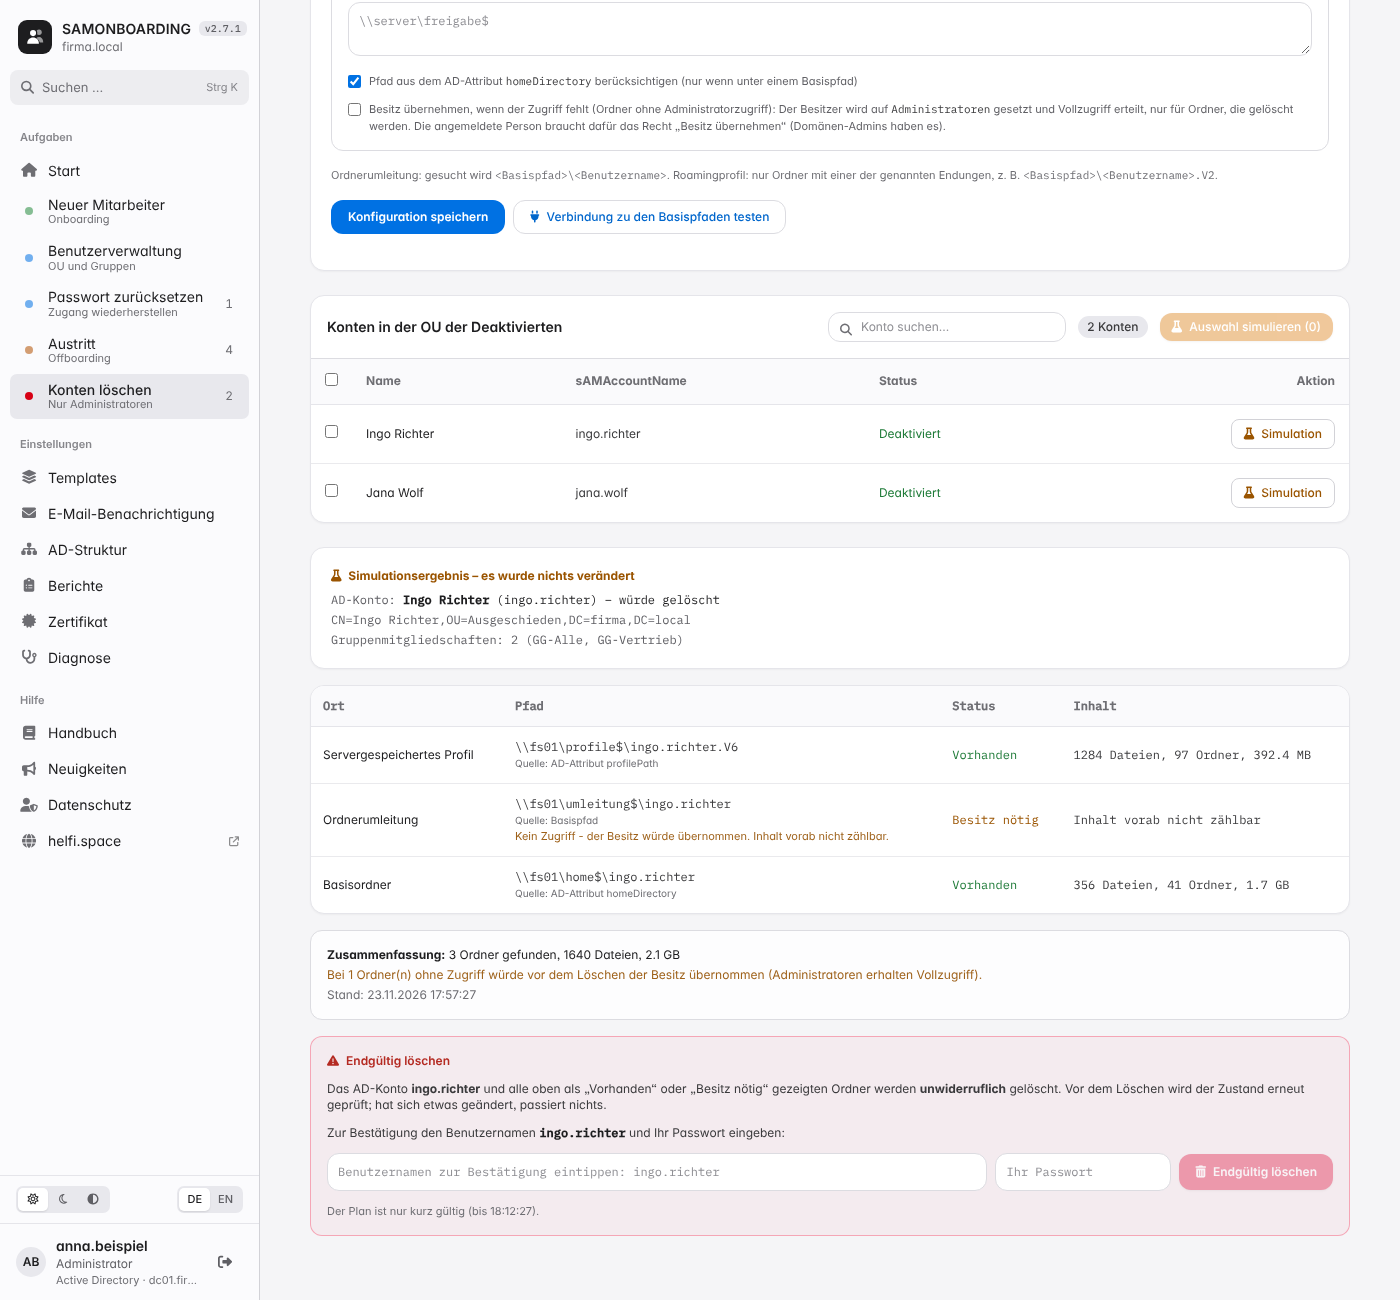
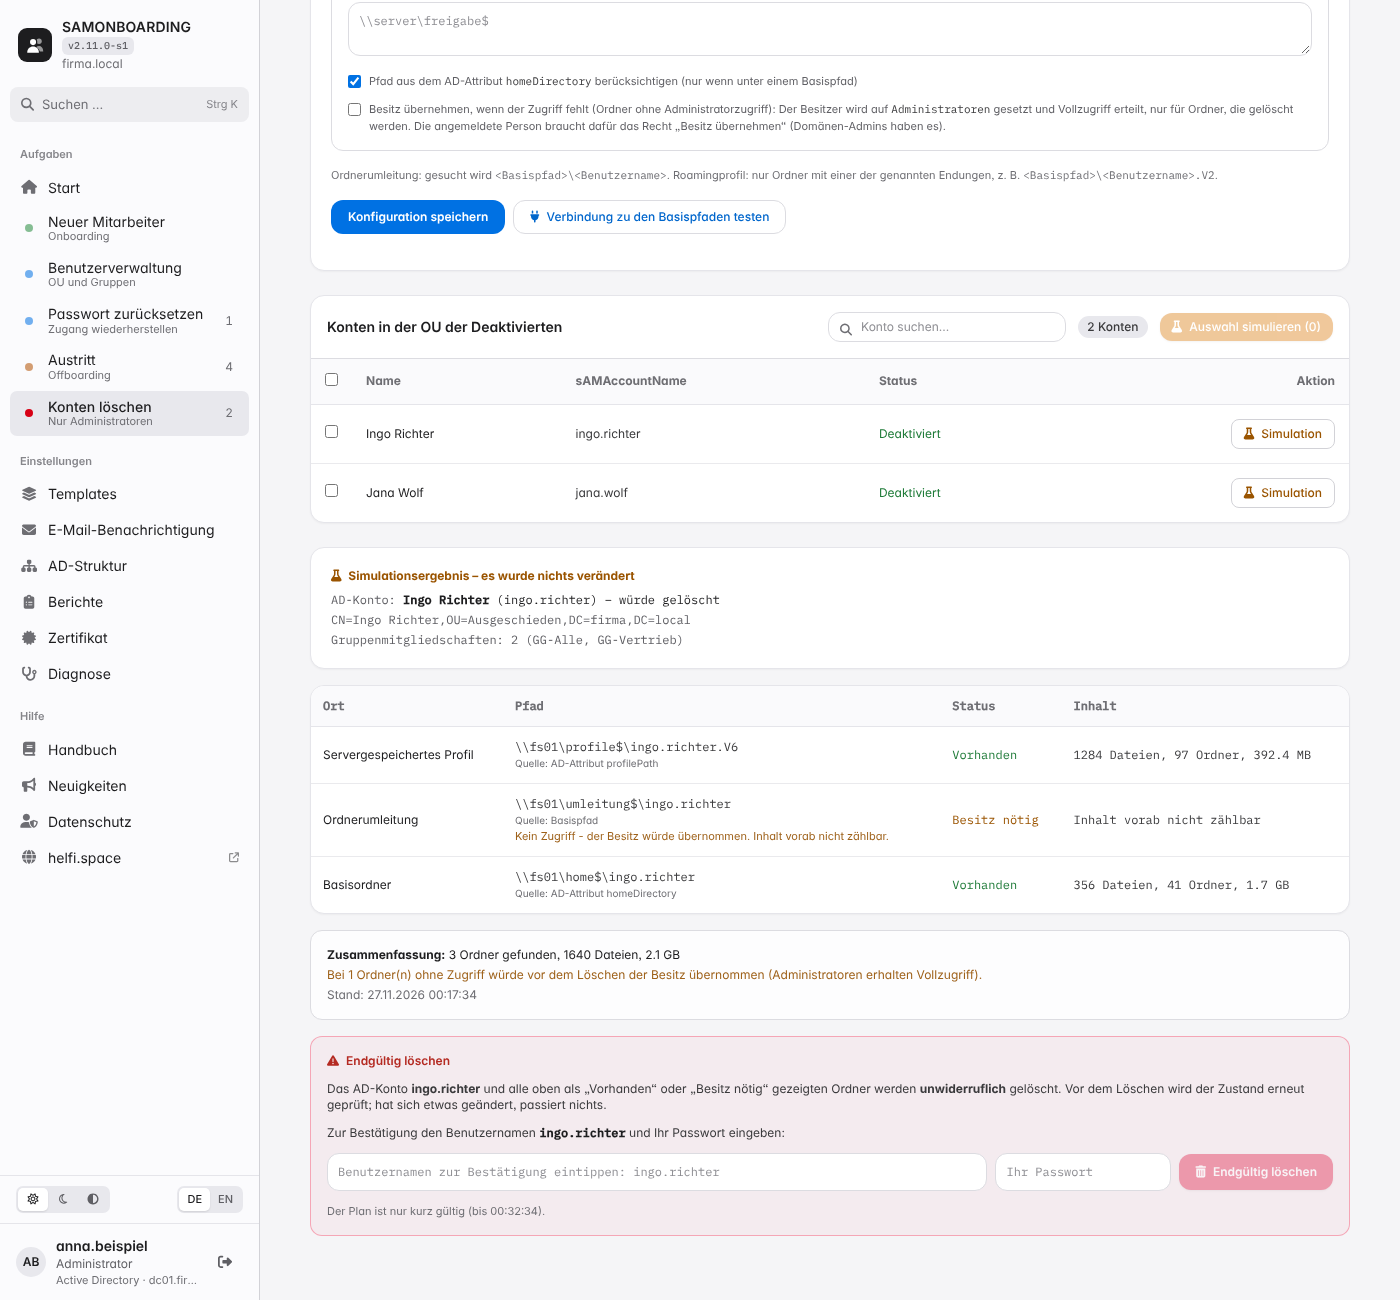
Show the installed release including the security update (2.11.1)
- Version chip, sign-in page, browser tab, start log line and test mail show
  the installed release from the shipped changelog (e.g. 2.11.0-s1) instead
  of only the program version; app.js/theme.js addresses change with it
- Narrow sidebar: the version moves below the name instead of being cut off
- Test, README EN/DE, CHANGELOG, README screenshots

Claude-Session: https://claude.ai/code/session_017eSFt6GgM5t9t8ibT7hHHf

Changed region(s): [[0.0, 0.0, 0.1536, 0.6769], [0.2764, 0.7385, 0.3379, 0.7692], [0.1536, 0.0615, 0.1843, 0.0923]]

diff --git a/samonboarding/web/index.html b/samonboarding/web/index.html
@@ -107,7 +107,11 @@
         .version-chip {
             font: 500 10px/1.6 var(--mono); padding: 1px 6px; border-radius: 6px; margin-left: 4px;
             background: var(--selected); color: var(--text-3); vertical-align: 2px; letter-spacing: 0;
+            display: inline-block; white-space: nowrap;
         }
+        /* narrow sidebar: a long version (2.11.0-s1) moves below the name instead of being cut off */
+        .sidebar-brand .brand-word { white-space: normal; line-height: 1.35; }
+        .sidebar-brand .brand-word .version-chip { margin-left: 0; }
         .brand-mark { width: 34px; height: 34px; border-radius: 9px; display: grid; place-items: center; color: #fff; font-size: 16px; flex: none; background: var(--brand-tile); }
         .brand-mark-sm { width: 28px; height: 28px; border-radius: 8px; font-size: 13px; }
         .brand-glyph { width: 1.3em; height: 1.3em; display: block; }

diff --git a/tests/test_csp.py b/tests/test_csp.py
@@ -4,6 +4,7 @@ the interface logic is served as /app.js, handlers are data-on-* attributes with
 import re
 import unittest
 from pathlib import Path
+from unittest import mock
 
 import _paths
 
@@ -72,8 +73,24 @@ class CspTests(unittest.TestCase):
     def test_script_is_served_with_version(self):
         ui = (ROOT / "samonboarding" / "routers" / "ui.py").read_text(encoding="utf-8")
         self.assertIn('@router.get("/app.js")', ui)
-        self.assertIn('load_app_js().replace("__APP_VERSION__", VERSION)', ui)
+        self.assertIn('load_app_js().replace("__APP_VERSION__", updatecheck.installed())', ui)
         self.assertIn("text/javascript", ui)
+
+    def test_page_shows_the_installed_release_with_security_update(self):
+        """After a security update the interface shows 2.11.0-s1, not only the program version 2.11.0."""
+        try:
+            from samonboarding.routers import ui
+        except ImportError as e:  # without the installed packages
+            self.skipTest(str(e))
+        with mock.patch.object(ui.updatecheck, "installed", return_value="9.8.7-s3"):
+            page = ui.serve_gui()
+            body = ui.serve_app_js().body
+            script = body.decode("utf-8") if isinstance(body, bytes) else str(body)  # stub: str
+        self.assertIn('<span class="version-chip">v9.8.7-s3</span>', page)
+        self.assertIn("SAMONBOARDING v9.8.7-s3</title>", page)
+        self.assertIn("/app.js?v=9.8.7-s3", page)  # new image: new address, no stale script from the cache
+        self.assertIn("SAMONBOARDING v9.8.7-s3", script)
+        self.assertNotIn("__APP_VERSION__", page + script)
 
 
 if __name__ == "__main__":

diff --git a/samonboarding/routers/ui.py b/samonboarding/routers/ui.py
@@ -13,7 +13,7 @@ from fastapi import APIRouter, FastAPI
 from fastapi.responses import HTMLResponse, Response
 from fastapi.staticfiles import StaticFiles
 
-from .. import i18n
+from .. import i18n, updatecheck
 from ..config import CONFIG_FILE, STATIC_DIR, VERSION, WEB_DIR, default_config
 from ..storage import load_json
 
@@ -85,7 +85,7 @@ def serve_app_js():
     """The interface logic as its own file, so the CSP can forbid inline scripts. The page links it with
     ?v=<version>: it may be kept for a day, an update changes the address."""
     return Response(
-        load_app_js().replace("__APP_VERSION__", VERSION),
+        load_app_js().replace("__APP_VERSION__", updatecheck.installed()),
         media_type="text/javascript; charset=utf-8",
         headers={"Cache-Control": "public, max-age=86400"},
     )
@@ -108,7 +108,7 @@ def serve_gui():
     return (
         load_index_html()
         .replace("__ASSET_HEAD__", asset_head())
-        .replace("__APP_VERSION__", VERSION)
+        .replace("__APP_VERSION__", updatecheck.installed())  # with the security update: 2.11.0-s1
         .replace("__APP_DOMAIN__", domain)
         .replace("__I18N__", i18n_json())
     )

diff --git a/samonboarding/routers/settings.py b/samonboarding/routers/settings.py
@@ -6,6 +6,7 @@ import logging
 
 from fastapi import APIRouter, Depends, HTTPException
 
+from .. import updatecheck
 from ..audit import actor_name, audit
 from ..config import (
     EXCHANGE_CONFIG_FILE,
@@ -14,7 +15,6 @@ from ..config import (
     SMTP_CONFIG_FILE,
     SMTP_TLS_MODES,
     USERMGMT_CONFIG_FILE,
-    VERSION,
     default_offboarding_config,
     default_pwdreset_config,
     default_smtp_config,
@@ -229,7 +229,7 @@ def test_smtp(user: dict = Depends(get_current_user)):
         actor_name(user),
         "SAMONBOARDING Suite",
         "#0284c7",
-        f"Dies ist eine erfolgreiche Test-Mail der SAMONBOARDING Suite v{VERSION}.",
+        f"Dies ist eine erfolgreiche Test-Mail der SAMONBOARDING Suite v{updatecheck.installed()}.",
         [("Server:", f"{cfg.get('host')}:{cfg.get('port')} ({cfg.get('tlsMode')})", "mono")],
     )
     try:

diff --git a/samonboarding/main.py b/samonboarding/main.py
@@ -14,7 +14,7 @@ from ldap3.core.exceptions import LDAPException
 from starlette.middleware.base import BaseHTTPMiddleware
 
 from . import i18n, offboard_store, privacy, reports, timing, updatecheck
-from .config import CONFIG_FILE, DATA_DIR, HTTPS_PORT, VERSION, default_config
+from .config import CONFIG_FILE, DATA_DIR, HTTPS_PORT, default_config
 from .routers import (
     auth,
     certificate,
@@ -66,7 +66,7 @@ async def _lifespan(app):
     )
     log.info(
         "SAMONBOARDING %s gestartet - HTTPS auf Port %s%s",
-        VERSION,
+        updatecheck.installed(),
         HTTPS_PORT,
         f", Zertifikat: {cert}" if cert else "",
     )

diff --git a/samonboarding/config.py b/samonboarding/config.py
@@ -98,7 +98,7 @@ LOGIN_MAX_ATTEMPTS = max(1, _env_int("LOGIN_MAX_ATTEMPTS", 5))
 
 LOGIN_LOCK_SECONDS = max(1, _env_int("LOGIN_LOCK_MINUTES", 5)) * 60
 
-VERSION = "2.11.0"
+VERSION = "2.11.1"
 
 default_config = {
     "domain": os.environ.get("AD_DOMAIN", "").strip() or "firma.local",

diff --git a/README.de.md b/README.de.md
@@ -713,7 +713,7 @@ Auf GitHub laufen drei Workflows (`image.yml` mit den Bauschritten in `build.yml
 | Dienstag eine Woche vor dem Patchday 01:51 UTC (auch jederzeit von Hand: *Actions → ZAP scan → Run workflow*) | Einmal im Monat startet GitHub das Programm in einem Wegwerf-Container mit Testdaten und lässt [ZAP](https://www.zaproxy.org/) es ohne Anmeldung durchsuchen und angreifen (passiver und aktiver Scan, nie gegen echte Server). Der Code-Audit zwei Tage danach prüft jeden Fund am Code und behebt bestätigte Schwachstellen vor dem Patchday. Bei normalen Pull Requests läuft der Scan nicht. |
 | Montags 06:29 UTC | Wie lange bekommen Debian, Python und Node noch Sicherheitsupdates (endoflife.date)? Ab 12 Monaten vor dem Ende ein Hinweis am Lauf, ab 6 Monaten ein roter Lauf |
 
-Zu jeder veröffentlichten Version entsteht auf GitHub eine Release-Seite `v<Version>` mit dem Changelog-Eintrag (bei Sicherheitsupdates mit der Liste der geänderten Pakete). `-s<Zähler>` bedeutet: gleiches Programm, nur neuere Pakete. `:latest` zeigt immer auf die höchste Version. Auf einen Server kommt ein Update über die Container-Verwaltung, `docker compose pull` oder `sudo sh update.sh` (siehe [Update](#update)).
+Zu jeder veröffentlichten Version entsteht auf GitHub eine Release-Seite `v<Version>` mit dem Changelog-Eintrag (bei Sicherheitsupdates mit der Liste der geänderten Pakete). `-s<Zähler>` bedeutet: gleiches Programm, nur neuere Pakete; die Oberfläche zeigt ihn neben dem Namen (oben links und auf der Anmeldeseite), z. B. *v2.11.0-s1*. `:latest` zeigt immer auf die höchste Version. Auf einen Server kommt ein Update über die Container-Verwaltung, `docker compose pull` oder `sudo sh update.sh` (siehe [Update](#update)).
 
 Trivy wird nicht als GitHub Action eingebunden (`trivy-action` und `setup-trivy` wurden im März 2026 kompromittiert, CVE-2026-33634). `scripts/install-trivy.sh` lädt eine feste Version und prüft ihre SHA-256-Prüfsumme gegen den eingetragenen Wert und gegen die offizielle Prüfsummen-Datei des Releases. Eine neue Trivy-Version wird nur bewusst übernommen, mit Version und Prüfsumme in dieser Datei.
 

diff --git a/README.md b/README.md
@@ -713,7 +713,7 @@ Three workflows run on GitHub (`image.yml` with the build steps in `build.yml`, 
 | Tuesday one week before patch day 01:51 UTC (also by hand: *Actions → ZAP scan → Run workflow*) | Once a month GitHub starts the program in a throwaway container with test data and lets [ZAP](https://www.zaproxy.org/) crawl and attack it without logging in (passive and active scan, never against real servers). The code audit two days later checks every finding against the code and fixes confirmed vulnerabilities before patch day. The scan does not run on normal pull requests. |
 | Mondays 06:29 UTC | How long do Debian, Python and Node still get security updates (endoflife.date)? From 12 months before the end a note on the run, from 6 months a red run |
 
-For every published version a release page `v<version>` with the changelog entry is created on GitHub (for security updates with the list of changed packages). `-s<counter>` means: same program, only newer packages. `:latest` always points to the highest version. An update reaches a server via the container manager, `docker compose pull` or `sudo sh update.sh` (see [Update](#update)).
+For every published version a release page `v<version>` with the changelog entry is created on GitHub (for security updates with the list of changed packages). `-s<counter>` means: same program, only newer packages; the interface shows it next to the name (top left and on the sign-in page), e.g. *v2.11.0-s1*. `:latest` always points to the highest version. An update reaches a server via the container manager, `docker compose pull` or `sudo sh update.sh` (see [Update](#update)).
 
 Trivy is not included as a GitHub Action (`trivy-action` and `setup-trivy` were compromised in March 2026, CVE-2026-33634). `scripts/install-trivy.sh` downloads a fixed version and checks its SHA-256 checksum against the stored value and against the official checksums file of the release. A new Trivy version is only taken over deliberately, with version and checksum in that file.
 

diff --git a/CHANGELOG.de.md b/CHANGELOG.de.md
@@ -7,6 +7,9 @@ Update auf dem Server: `sudo sh update.sh` oder `docker compose pull && docker c
 
 Einträge, die mit „Sicherheit:“ oder „Behoben:“ beginnen, werden in der Oberfläche entsprechend markiert.
 
+## 2.11.1 – 2026-11-27
+- Behoben: Nach einem Sicherheitsupdate zeigte die Oberfläche nur die Programmversion (z. B. *v2.11.0*). Jetzt steht dort der installierte Stand samt Sicherheitsupdate – *v2.11.0-s1* – neben dem Namen, auf der Anmeldeseite, im Browser-Tab, in der Startmeldung des Protokolls und in der Test-Mail. In der schmalen Menüleiste rutscht die Version unter den Namen, statt abgeschnitten zu werden.
+
 ## 2.11.0-s1 – 2026-11-25
 - Sicherheit: Sicherheitsupdate ohne Programmänderung: gleiches Programm, aktualisierte Pakete.
 - Basis-Images:

diff --git a/CHANGELOG.md b/CHANGELOG.md
@@ -7,6 +7,9 @@ Update on the server: `sudo sh update.sh` or `docker compose pull && docker comp
 
 Entries starting with "Security:" or "Fixed:" are marked accordingly in the interface.
 
+## 2.11.1 – 2026-11-27
+- Fixed: after a security update the interface still showed only the program version (e.g. *v2.11.0*). It now shows the installed release including the security update – *v2.11.0-s1* – next to the name, on the sign-in page, in the browser tab, in the start message of the log and in the test mail. In the narrow menu bar the version moves below the name instead of being cut off.
+
 ## 2.11.0-s1 – 2026-11-25
 - Security: security update without program changes: same program, updated packages.
 - Base images:
